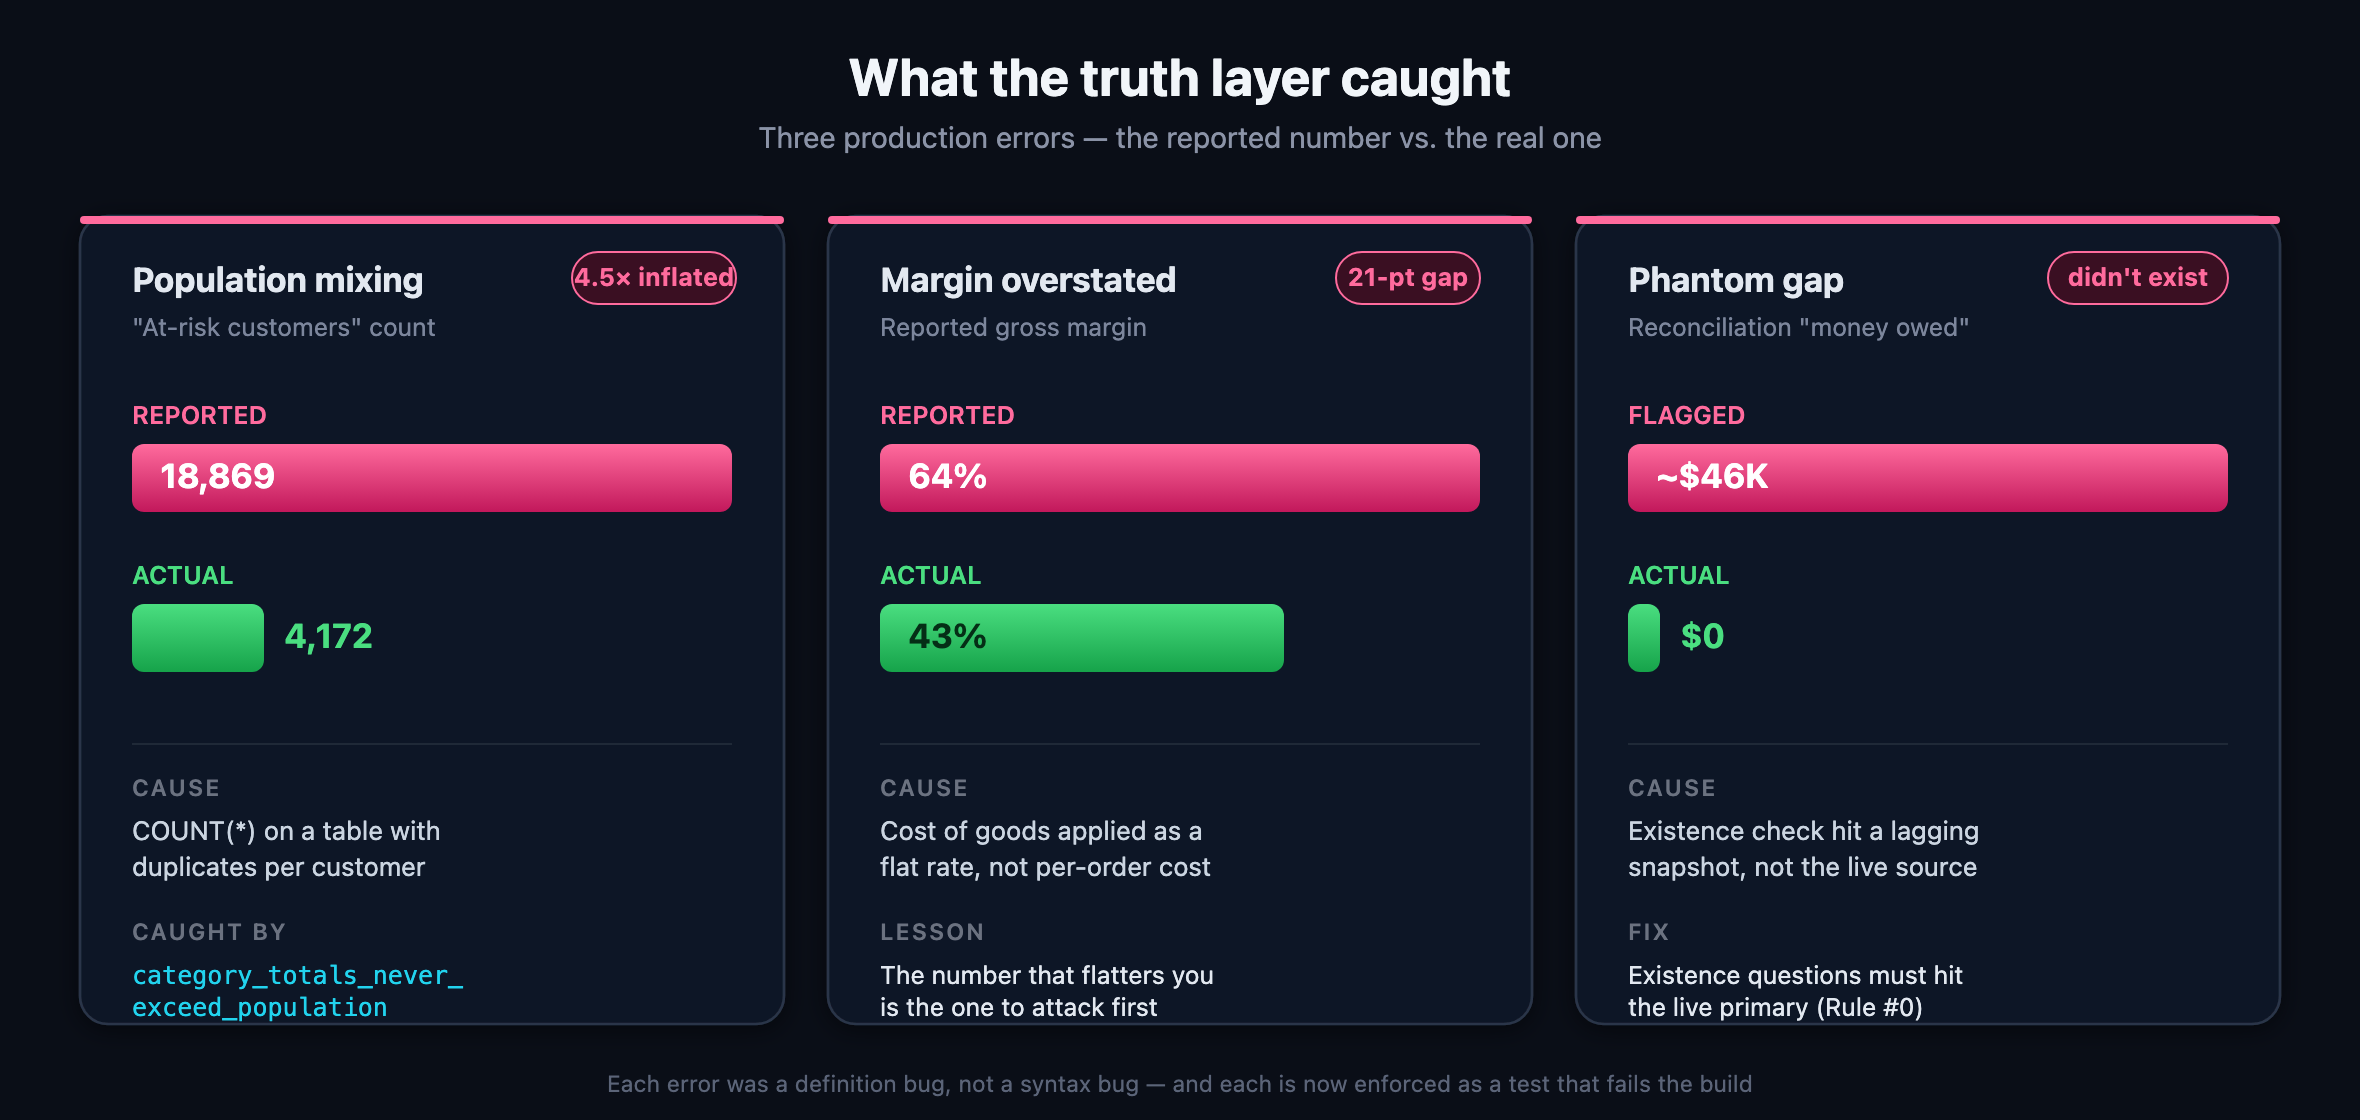
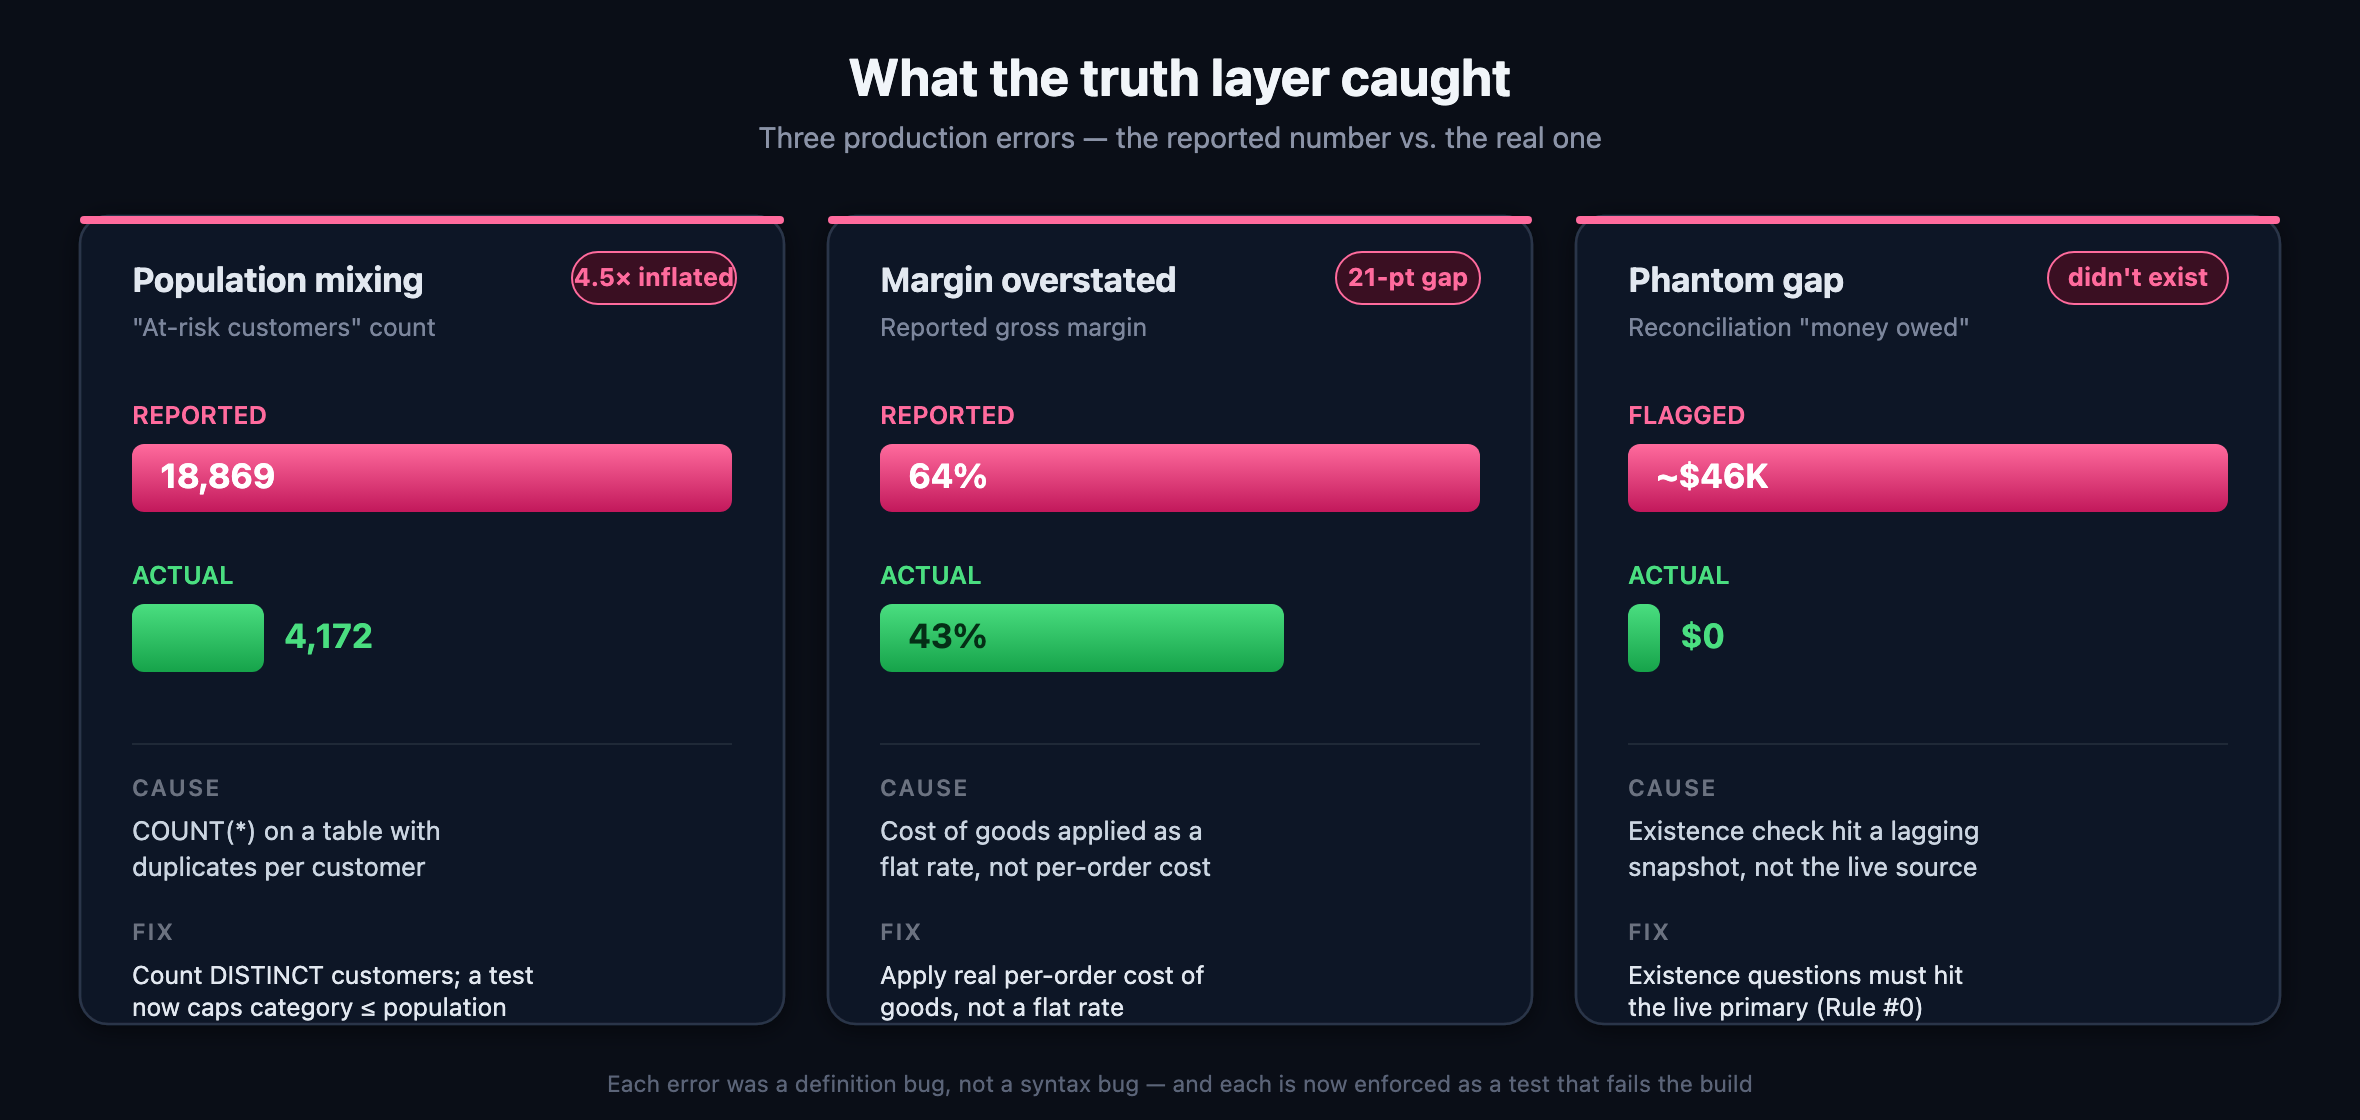
Fix review nits: unify CAUSE/FIX labels, scale Venn circles + declutter labels, fix clipped bar values + duplicate titles in HTML

Changed region(s): [[0.0619, 0.8125, 0.2165, 0.9062], [0.3712, 0.8125, 0.5258, 0.9062]]

diff --git a/docs/index.html b/docs/index.html
@@ -48,11 +48,13 @@
                 border-radius: 13px; padding: 4px 11px; }
   .bar-label { font-size: 12px; font-weight: 700; letter-spacing: .5px; margin: 20px 0 7px; }
   .bar-label.bad { color: var(--red); } .bar-label.good { color: var(--green); }
-  .bar-track { height: 34px; border-radius: 7px; background: rgba(255,255,255,0.04); overflow: hidden; }
-  .bar-fill { height: 100%; border-radius: 7px; width: 0; transition: width 1.1s cubic-bezier(.22,1,.36,1);
-              display: flex; align-items: center; padding-left: 14px; font-weight: 700; font-size: 16px; white-space: nowrap; }
-  .bar-fill.bad { background: linear-gradient(90deg,#ff6b9d,#c2185b); color:#fff; }
-  .bar-fill.good { background: linear-gradient(90deg,#4ade80,#16a34a); color:#052e16; }
+  .bar-row { display: flex; align-items: center; gap: 12px; }
+  .bar-track { height: 34px; border-radius: 7px; background: rgba(255,255,255,0.04); flex: 1; overflow: hidden; }
+  .bar-fill { height: 100%; border-radius: 7px; width: 0; transition: width 1.1s cubic-bezier(.22,1,.36,1); }
+  .bar-fill.bad { background: linear-gradient(90deg,#ff6b9d,#c2185b); }
+  .bar-fill.good { background: linear-gradient(90deg,#4ade80,#16a34a); }
+  .bar-val { font-weight: 700; font-size: 16px; white-space: nowrap; min-width: 62px; }
+  .bar-val.bad { color: var(--red); } .bar-val.good { color: var(--green); }
   .meta { margin-top: 22px; border-top: 1px solid #1f2937; padding-top: 16px; }
   .meta .k { font-size: 11px; letter-spacing: 1px; color: var(--dim); font-weight: 700; }
   .meta .v { font-size: 13px; color: #cbd5e1; margin: 4px 0 12px; }
@@ -99,12 +101,12 @@
         <h3>Population mixing</h3>
         <div class="sub">"At-risk customers" count</div>
         <div class="bar-label bad">REPORTED</div>
-        <div class="bar-track"><div class="bar-fill bad" data-w="100">18,869</div></div>
+        <div class="bar-row"><div class="bar-track"><div class="bar-fill bad" data-w="100"></div></div><span class="bar-val bad">18,869</span></div>
         <div class="bar-label good">ACTUAL</div>
-        <div class="bar-track"><div class="bar-fill good" data-w="22">4,172</div></div>
+        <div class="bar-row"><div class="bar-track"><div class="bar-fill good" data-w="22"></div></div><span class="bar-val good">4,172</span></div>
         <div class="meta">
           <div class="k">CAUSE</div><div class="v">COUNT(*) on a table with duplicates per customer</div>
-          <div class="k">CAUGHT BY</div><div class="v mono">category_totals_never_exceed_population</div>
+          <div class="k">FIX</div><div class="v">Count DISTINCT customers; a test now caps category &le; population</div>
         </div>
       </div>
 
@@ -113,12 +115,12 @@
         <h3>Margin overstated</h3>
         <div class="sub">Reported gross margin</div>
         <div class="bar-label bad">REPORTED</div>
-        <div class="bar-track"><div class="bar-fill bad" data-w="100">64%</div></div>
+        <div class="bar-row"><div class="bar-track"><div class="bar-fill bad" data-w="100"></div></div><span class="bar-val bad">64%</span></div>
         <div class="bar-label good">ACTUAL</div>
-        <div class="bar-track"><div class="bar-fill good" data-w="67">43%</div></div>
+        <div class="bar-row"><div class="bar-track"><div class="bar-fill good" data-w="67"></div></div><span class="bar-val good">43%</span></div>
         <div class="meta">
           <div class="k">CAUSE</div><div class="v">Cost of goods applied as a flat rate, not per-order cost</div>
-          <div class="k">LESSON</div><div class="v">The number that flatters you is the one to attack first</div>
+          <div class="k">FIX</div><div class="v">Apply real per-order cost of goods, not a flat rate</div>
         </div>
       </div>
 
@@ -127,9 +129,9 @@
         <h3>Phantom gap</h3>
         <div class="sub">Reconciliation "money owed"</div>
         <div class="bar-label bad">FLAGGED</div>
-        <div class="bar-track"><div class="bar-fill bad" data-w="100">~$46K</div></div>
+        <div class="bar-row"><div class="bar-track"><div class="bar-fill bad" data-w="100"></div></div><span class="bar-val bad">~$46K</span></div>
         <div class="bar-label good">ACTUAL</div>
-        <div class="bar-track"><div class="bar-fill good" data-w="5">$0</div></div>
+        <div class="bar-row"><div class="bar-track"><div class="bar-fill good" data-w="5"></div></div><span class="bar-val good">$0</span></div>
         <div class="meta">
           <div class="k">CAUSE</div><div class="v">Existence check hit a lagging snapshot, not the live source</div>
           <div class="k">FIX</div><div class="v">Existence questions must hit the live primary (Rule #0)</div>
@@ -145,10 +147,6 @@
 <!-- INTERSECTION -->
 <section>
   <div class="wrap">
-    <div class="sec-head reveal">
-      <h2>Intersection = trusted population</h2>
-      <p>When sources disagree, the trusted number is the verified overlap — never the bigger one.</p>
-    </div>
     <div class="figure reveal">
       <img src="population-intersection.svg" alt="Population intersection Venn diagram" loading="lazy">
     </div>
@@ -160,10 +158,6 @@
 <!-- MATCH FUNNEL -->
 <section>
   <div class="wrap">
-    <div class="sec-head reveal">
-      <h2>How records become one population</h2>
-      <p>Three sources funnel through match tiers — each pass resolves more, the rest is logged, not lost.</p>
-    </div>
     <div class="figure reveal">
       <img src="match-funnel.svg" alt="Reconciliation match funnel" loading="lazy">
     </div>
@@ -175,10 +169,6 @@
 <!-- ARCHITECTURE -->
 <section>
   <div class="wrap">
-    <div class="sec-head reveal">
-      <h2>The architecture</h2>
-      <p>Three contradictory sources in; one reconciled, contract-governed layer out — self-audited in CI.</p>
-    </div>
     <div class="figure reveal">
       <img src="architecture.svg" alt="System architecture" loading="lazy">
     </div>
